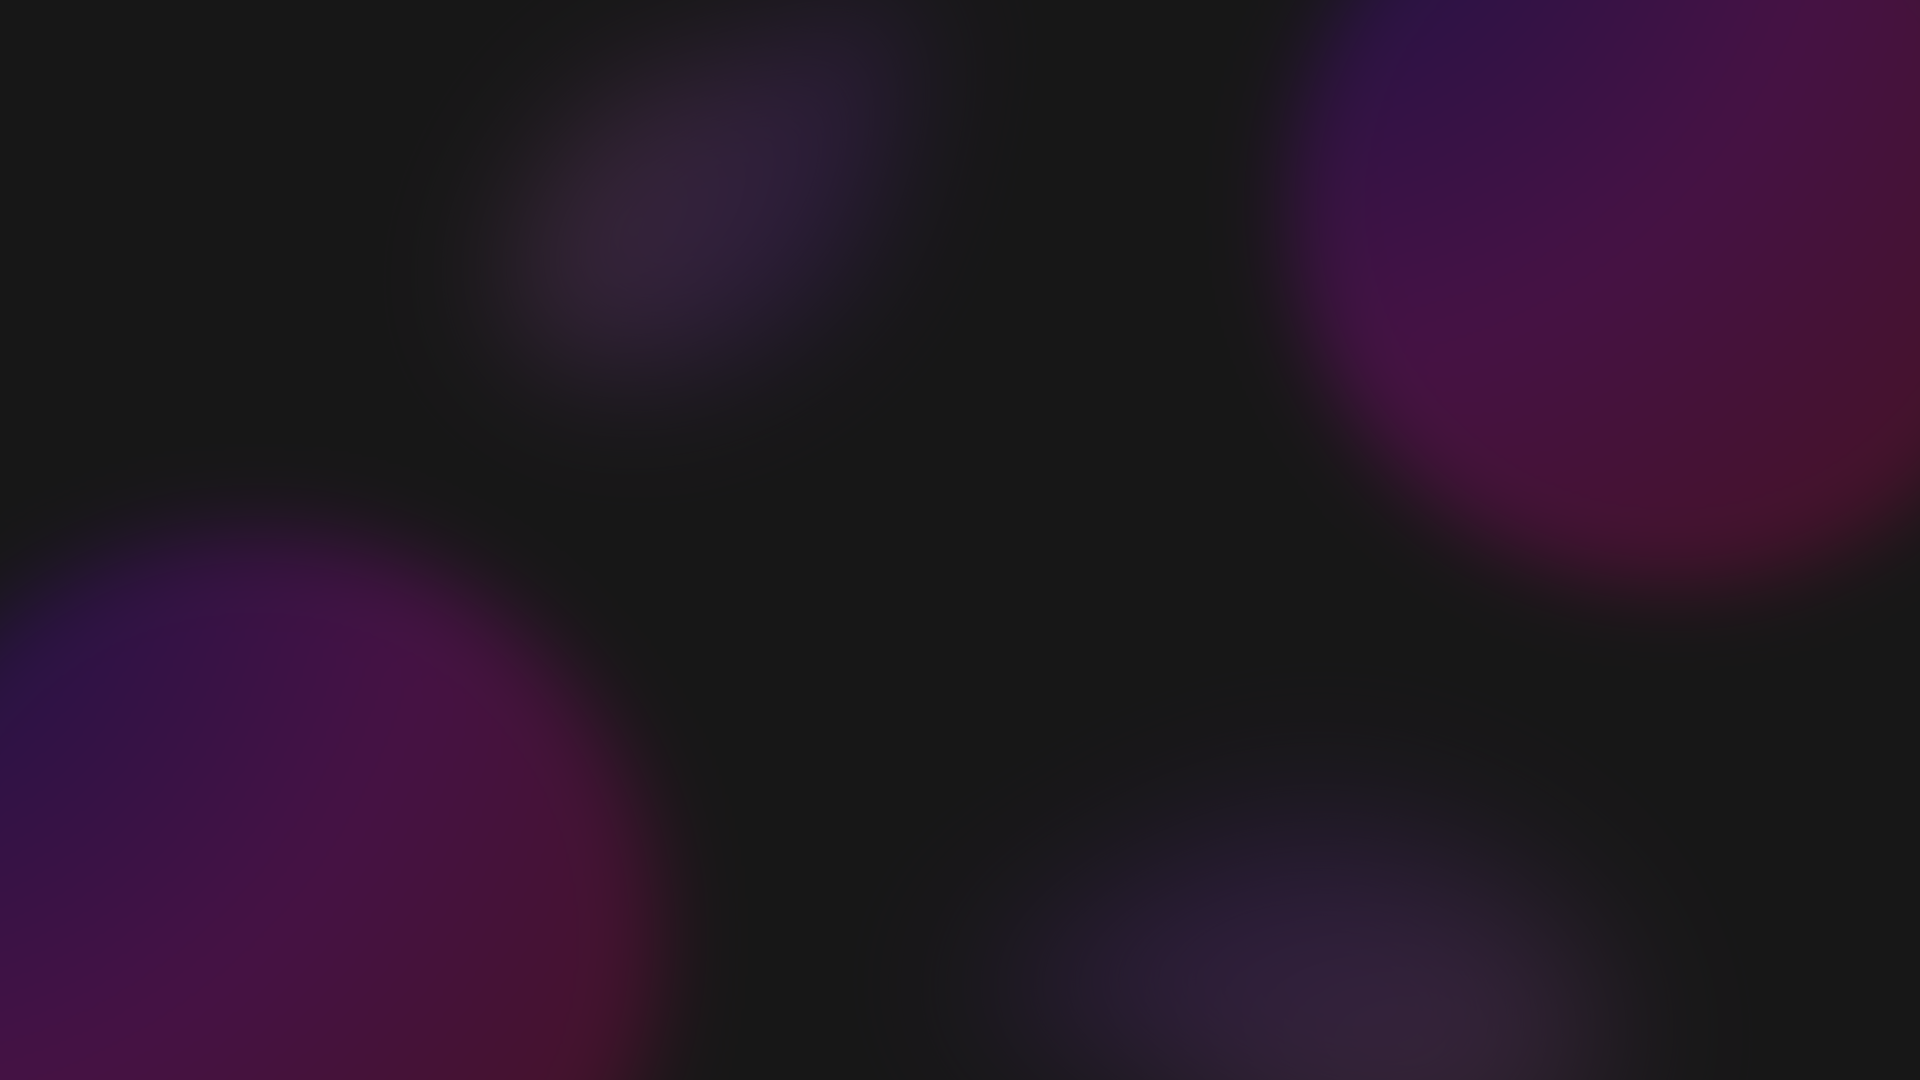
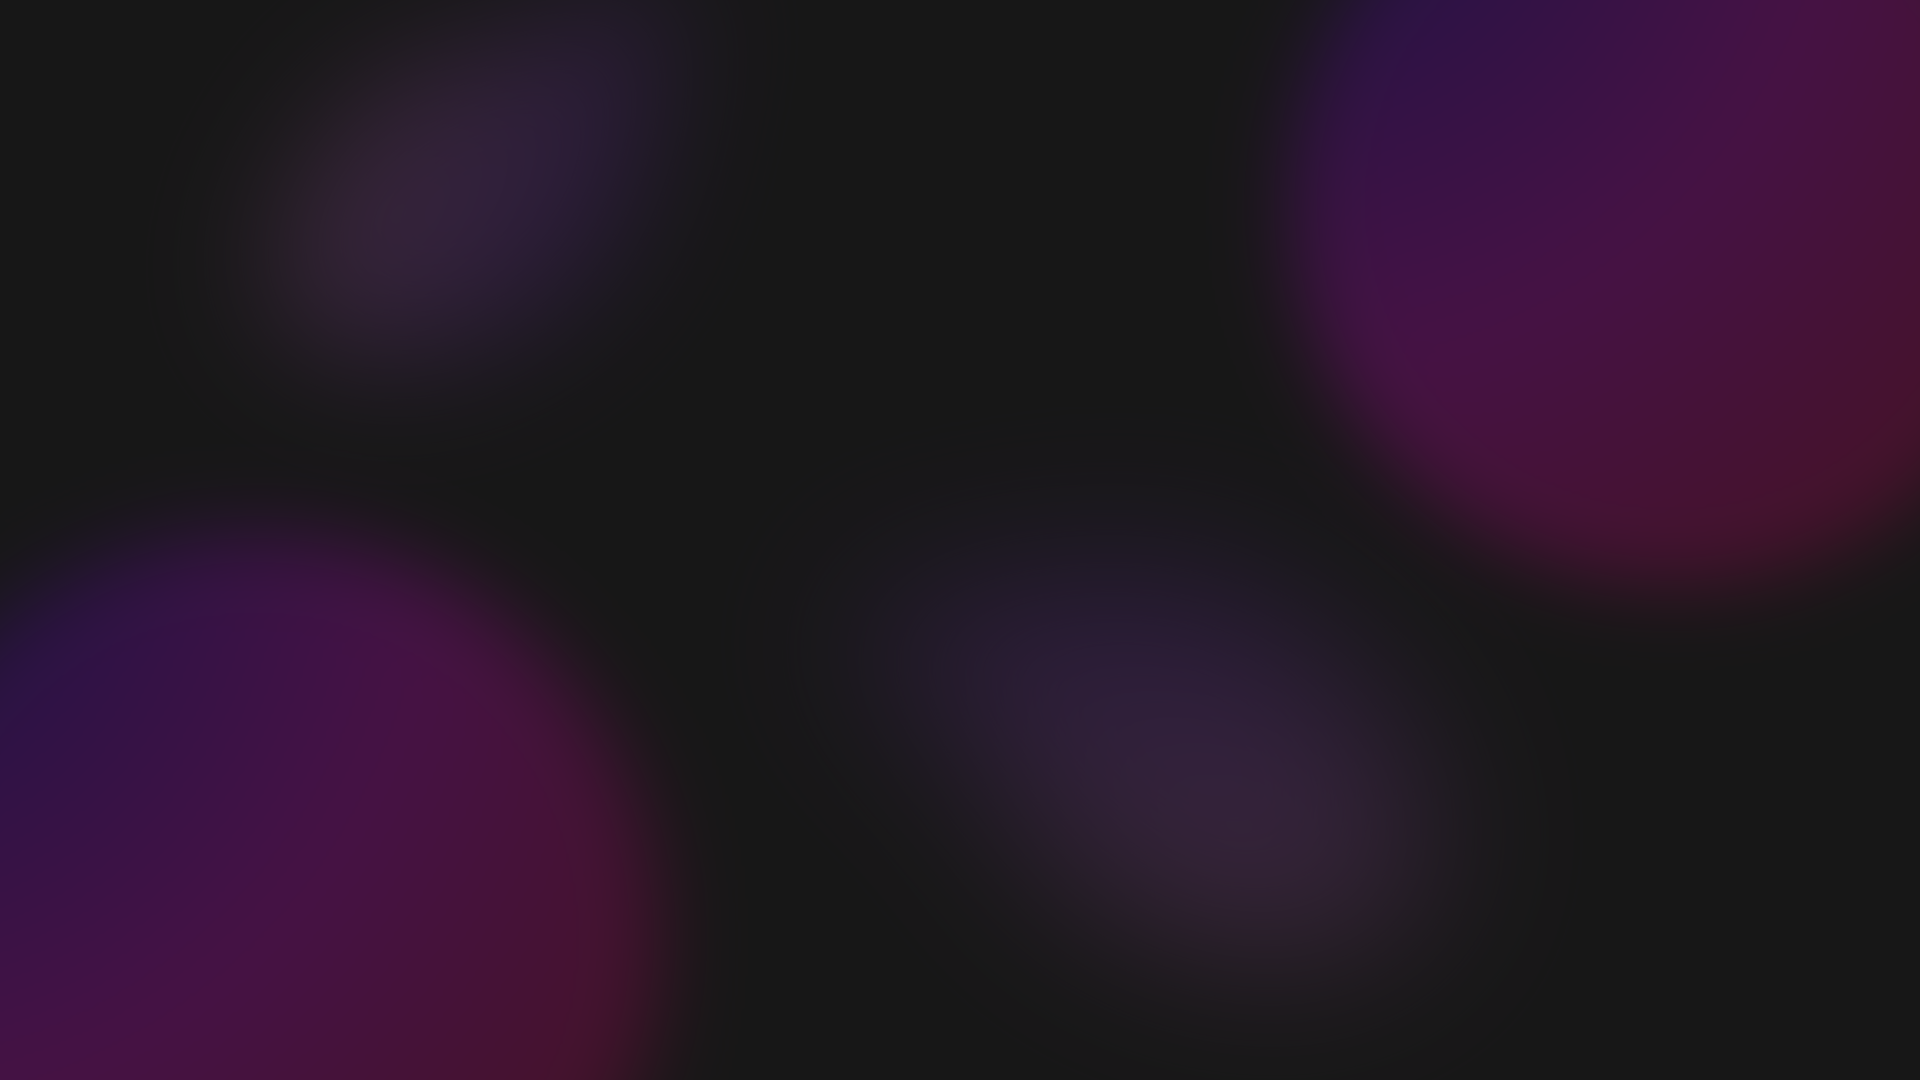
feat: background and some changes on the about-me page

diff --git a/styles/index.css b/styles/index.css
@@ -340,6 +340,7 @@ header {
   width: 100%;
   opacity: 0.9;
   z-index: 15;
+  border-bottom: 1px solid #2d2d2d;
 }
 header p {
   font-family: "Source Code Pro", monospace;
@@ -352,8 +353,9 @@ header p {
 
 main section.home {
   background-image: url("../../img/background/background-main.png");
-  background-size: cover;
+  background-size: 100% 100%;
   background-repeat: no-repeat;
+  background-position: center;
   padding: 0px 20px 100px 20px;
   display: grid;
   grid-template-columns: repeat(1, 1fr);
@@ -516,8 +518,7 @@ main section.home div.part2 div.buttons-container a.curriculum {
 
 main section.about-me {
   padding: 100px 20px 100px 20px;
-  background-image: url("../../img/background/background-main.png");
-  background-size: cover;
+  background: #212121;
 }
 main section.about-me h2 {
   font-family: "Source Code Pro", monospace;
@@ -526,6 +527,9 @@ main section.about-me h2 {
   font-style: normal;
   color: white;
   font-weight: 900;
+  font-size: 35px;
+  text-align: center;
+  margin-bottom: 60px;
 }
 main section.about-me div.about-me-container {
   font-family: "Source Code Pro", monospace;
@@ -535,6 +539,9 @@ main section.about-me div.about-me-container {
   display: flex;
   flex-direction: column;
   gap: 60px;
+  max-width: 700px;
+  align-self: center;
+  justify-self: center;
 }
 main section.about-me div.about-me-container div.item {
   display: flex;
@@ -545,6 +552,8 @@ main section.about-me div.about-me-container div.item {
 main section.about-me div.about-me-container div.item img {
   width: 60%;
   max-width: 300px;
+  border-radius: 12px;
+  box-shadow: 10px 10px 0 0 rgba(0, 0, 0, 0.8);
 }
 main section.about-me div.about-me-container div.item p {
   color: #b2b2b2;
@@ -557,6 +566,14 @@ main section.about-me div.about-me-container div.item.left {
 main section.about-me div.about-me-container div.item.right {
   align-items: end;
   text-align: end;
+}
+@media (orientation: landscape) {
+  main section.about-me h2 {
+    font-size: 80px;
+  }
+  main section.about-me div.about-me-container div.item p {
+    font-size: 20px;
+  }
 }
 
 * {

diff --git a/styles/pages/_about-me.scss b/styles/pages/_about-me.scss
@@ -12,13 +12,15 @@ main{
     section.about-me{
 
         padding: 100px 20px 100px 20px;
-        background-image: url('../../img/background/background-main.png');
-        background-size: cover;
+        background: $gray;
 
         h2{
             @include mainFont();
             color: white;
             font-weight: 900;
+            font-size: $title-font-size-mobile;
+            text-align: center;
+            margin-bottom: 60px;
         }
 
         div.about-me-container{
@@ -26,6 +28,9 @@ main{
             display: flex;
             flex-direction: column;
             gap: 60px;
+            max-width: 700px;
+            align-self: center;
+            justify-self: center;
 
             div.item{
                 display: flex;
@@ -36,6 +41,8 @@ main{
                 img{
                     width: 60%;
                     max-width: 300px;
+                    border-radius: 12px;
+                    box-shadow: 10px 10px 0 0 rgba(0, 0, 0, 0.8);
                 }
                 p{
                     color: $text;
@@ -49,6 +56,20 @@ main{
             div.item.right{
                 align-items: end;
                 text-align: end;
+            }
+        }
+
+        @media (orientation: landscape){
+            h2{
+                font-size: 80px;
+            }
+            
+            div.about-me-container{
+                div.item{
+                    p{
+                        font-size: $text-big-font-size;
+                    }
+                }
             }
         }
     }

diff --git a/styles/pages/_home.scss b/styles/pages/_home.scss
@@ -10,9 +10,7 @@
 
 main{
     section.home{
-        background-image: url('../../img/background/background-main.png');
-        background-size: cover;
-        background-repeat: no-repeat;
+        @include mainBackground();
         padding: 0px 20px 100px 20px;
         display: grid;
         grid-template-columns: repeat(1, 1fr);
@@ -58,7 +56,7 @@ main{
                 
                 h1{
                     color: white;
-                    font-size: 35px;
+                    font-size: $title-font-size-mobile;
                     @include mainFont();
                     font-weight: 900;
                     animation: start-animation-2 1s ease forwards;
@@ -165,7 +163,7 @@ main{
                     align-items: start;                  
 
                     h1{
-                        font-size: 80px;
+                        font-size: $title-font-size-pc;
                         letter-spacing: 10px;
                         line-height: 65px;
                     }

diff --git a/styles/variables-functions/_functions.scss b/styles/variables-functions/_functions.scss
@@ -1,0 +1,20 @@
+@mixin mainBackground(){
+    background-image: url('../../img/background/background-main.png');
+    background-size: 100% 100%;
+    background-repeat: no-repeat;
+    background-position: center;
+}
+
+@mixin background2(){
+    background-image: url('../../img/background/background2.png');
+    background-size: 100% 100%;
+    background-repeat: no-repeat;
+    background-position: center;
+}
+
+@mixin background3(){
+    background-image: url('../../img/background/background3.png');
+    background-size: 100% 100%;
+    background-repeat: no-repeat;
+    background-position: center;
+}

diff --git a/styles/_header.scss b/styles/_header.scss
@@ -17,6 +17,7 @@ header{
     width: 100%;
     opacity: 0.90;
     z-index: 15;
+    border-bottom: 1px solid $gray-light;
 
     p{
         @include mainFont();

diff --git a/styles/variables-functions/_variables.scss b/styles/variables-functions/_variables.scss
@@ -1,2 +1,5 @@
 $border-radius: 8px;
 $text-font-size: 16px;
+$text-big-font-size: 20px;
+$title-font-size-mobile: 35px;
+$title-font-size-pc: 80px;

diff --git a/styles/variables-functions/_colors.scss b/styles/variables-functions/_colors.scss
@@ -1,4 +1,5 @@
 $background: #171717;
+$background-2: #1d1d1d;
 
 $title: white;
 $text: #b2b2b2;
